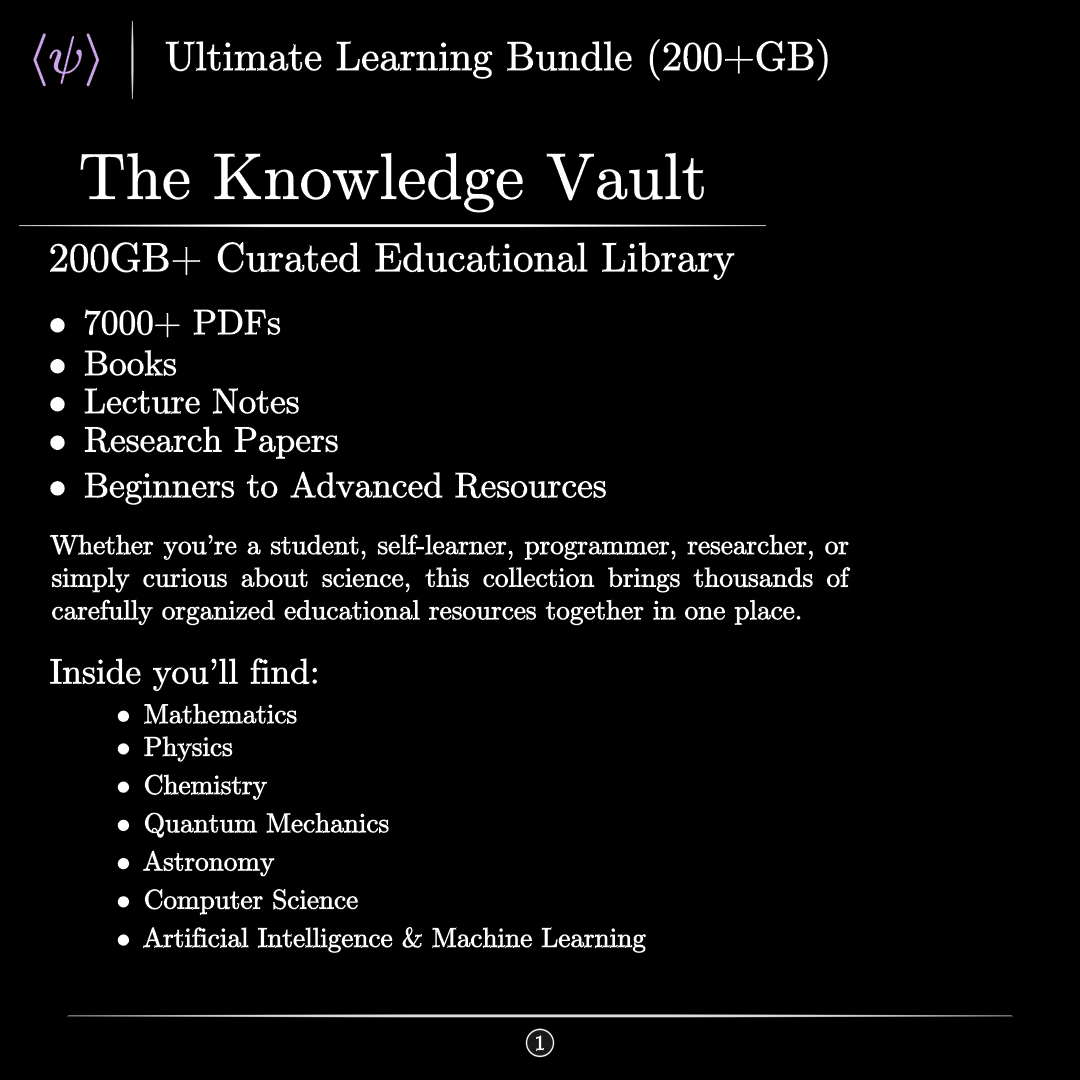
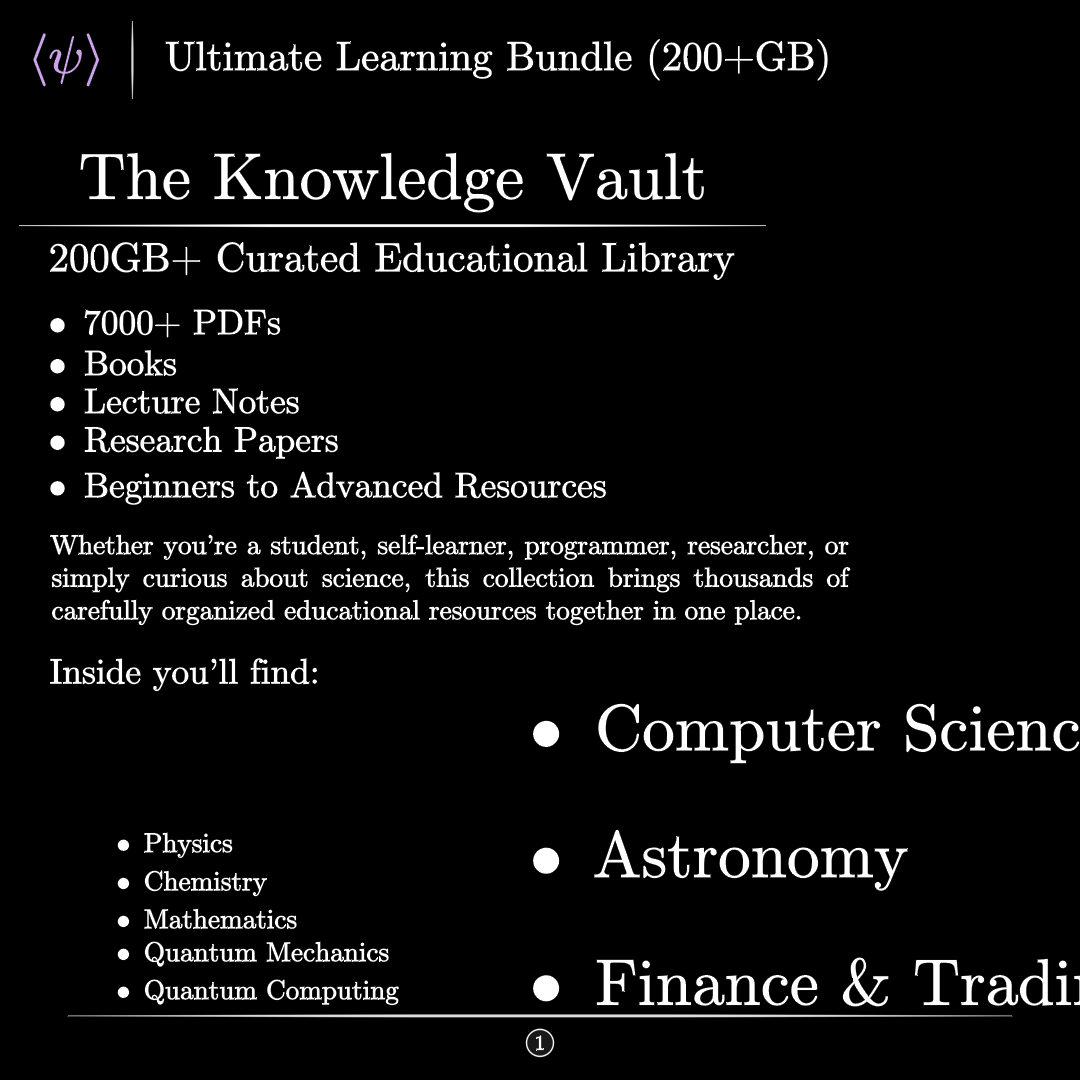
f

diff --git a/test.py b/test.py
@@ -83,17 +83,23 @@ class Paid(PaidTemplate):
 
         inside = VGroup(
             TexText("Inside you'll find:", font_size=26),
-            BulletedList(
-                "Mathematics",
-                "Physics",
-                "Chemistry",
-                "Quantum Mechanics",
-                "Astronomy",
-                "Computer Science",
-                R"Artificial Intelligence \& Machine Learning",
-                buff=SMALL_BUFF,
-                font_size=20
-            )
+            VGroup(
+                BulletedList(
+                    "Physics",
+                    "Chemistry",
+                    "Mathematics",
+                    "Quantum Mechanics",
+                    "Quantum Computing",
+                    font_size=20,
+                    buff=SMALL_BUFF
+                ),
+                BulletedList(
+                    "Computer Science",
+                    "Astronomy",
+                    R"Finance \& Trading",
+                    R"Ai \& ML"
+                )
+            ).arrange(RIGHT, buff=LARGE_BUFF)
         )
         inside.arrange(DOWN, buff=SMALL_BUFF, aligned_edge=LEFT)
         inside[0].shift(LEFT * 0.5)
